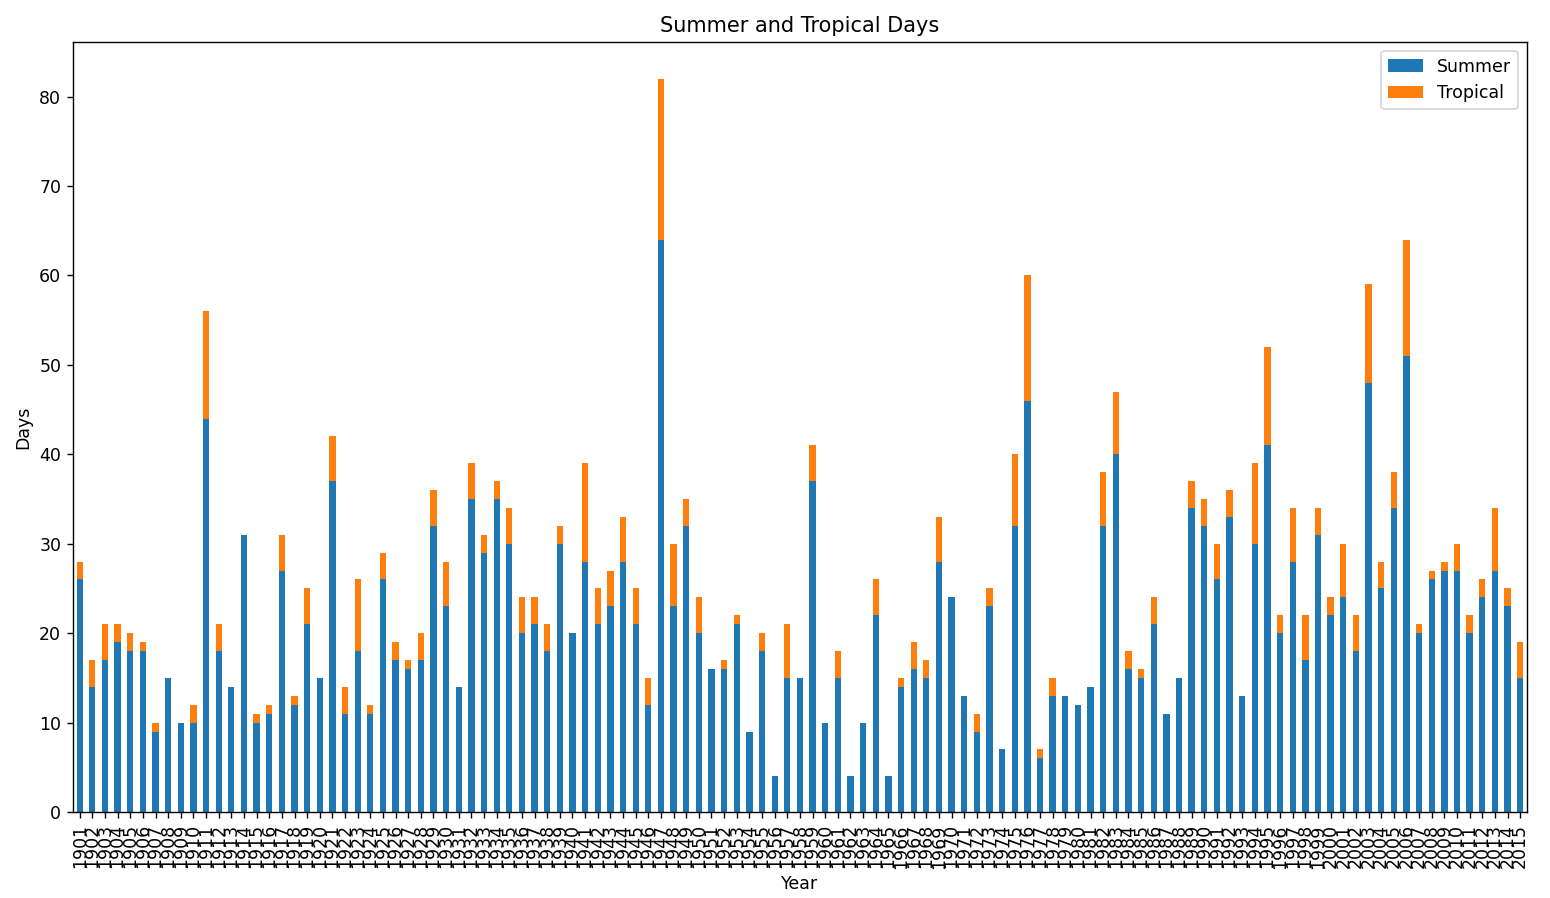
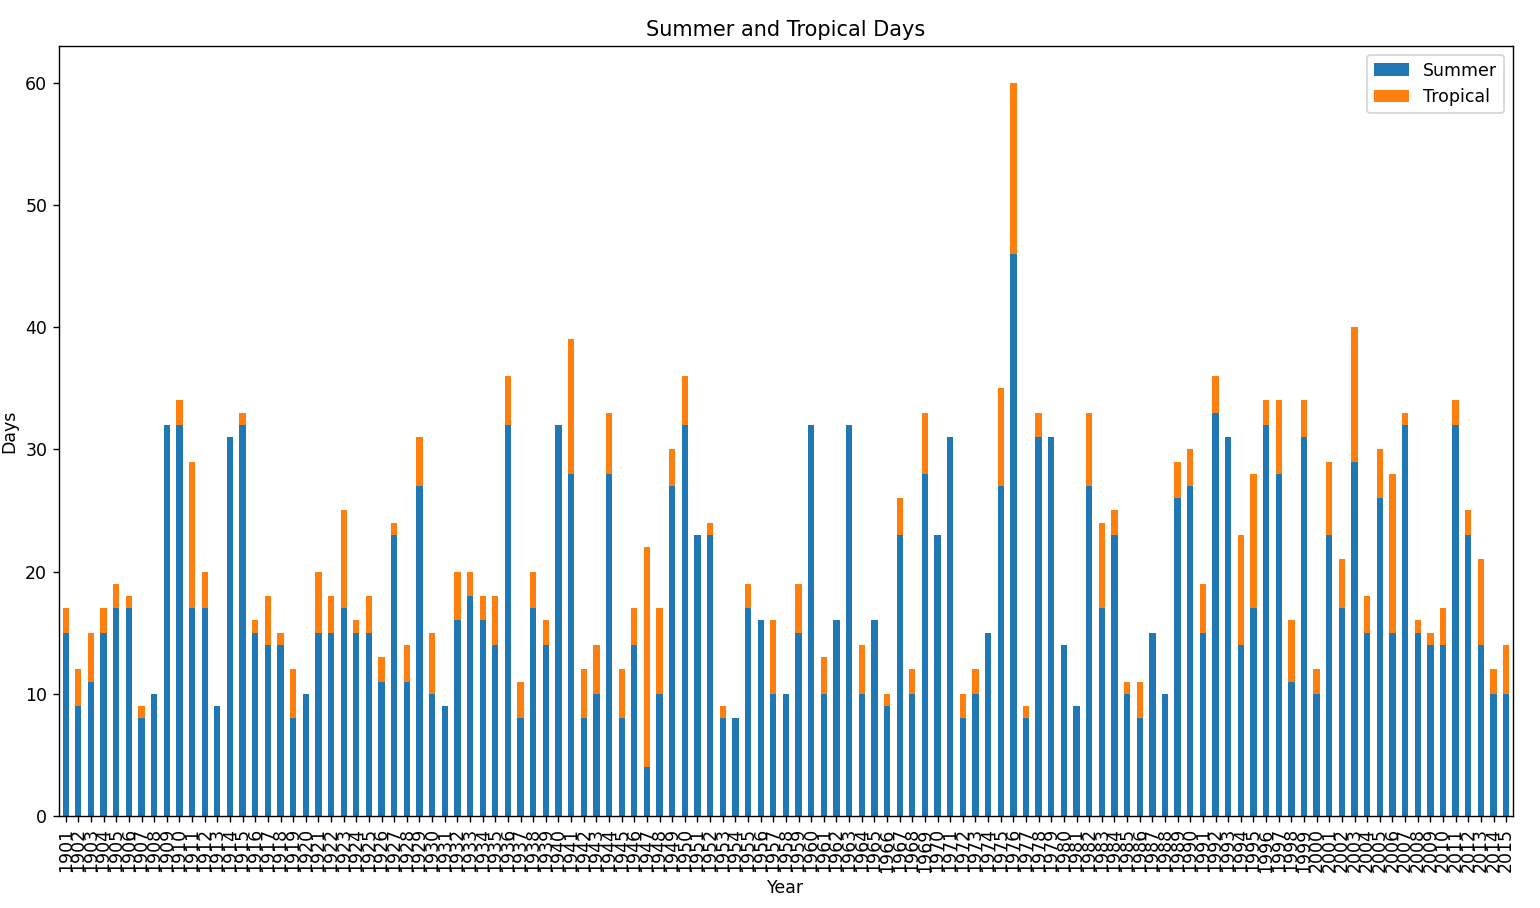
Deduct tropical days from summer days count

Changed region(s): [[0.0, 0.0, 0.9974, 0.9978]]

diff --git a/temperature.py b/temperature.py
@@ -231,9 +231,14 @@ for key in tropical_days:
     #print("Total tropical days in {}: {}".format(key, tropical_days[key]))
     tropical_list.append(tropical_days[key])
 
+# Deduct the tropical days from the summer days count.
+summer_list_excl_tropical = []
+for i in summer_list:
+    summer_list_excl_tropical.append(summer_list[i] - tropical_list[i])
+
 unique_years = get_unique_years(max_dates)
 plotdata = pd.DataFrame({
-    "Summer": summer_list,
+    "Summer": summer_list_excl_tropical,
     "Tropical": tropical_list},
     index=unique_years)
 plotdata.plot(kind='bar', stacked=True, figsize=(15, 8))
